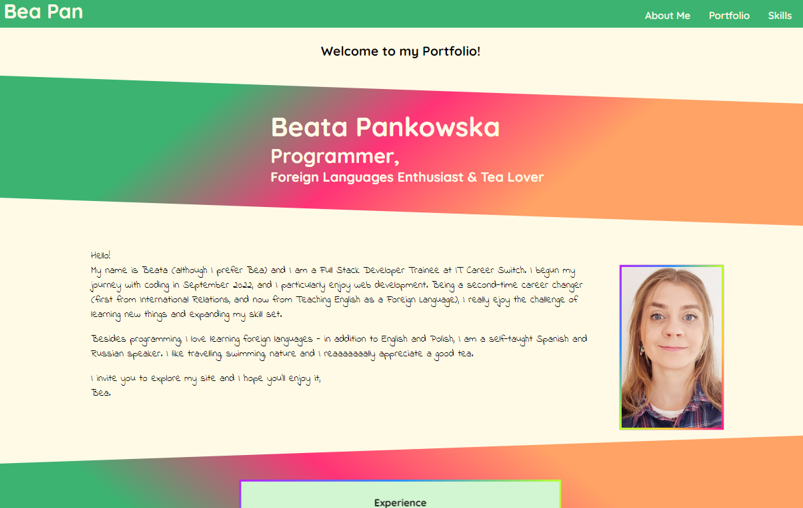
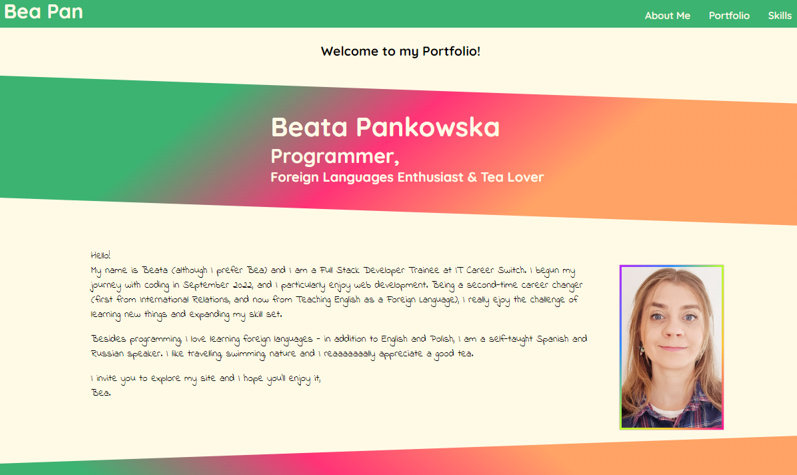
font-introduction and link to Bea Pan

diff --git a/skills.html b/skills.html
@@ -15,7 +15,7 @@
 <body>
     
     <header>
-        <h1>Bea Pan</h1>
+        <a href="index.html" style="text-decoration: none;"><h1>Bea Pan</h1></a>
         <nav>
             <ul>
                 <li><a href="index.html" class="nav">About Me</a></li>
@@ -63,7 +63,7 @@
             <div class="box" >
                 <section  class="skills-box" >
                     <h2>CSS</h2>
-                    <p>Thanks to CSS we can add styling to websites and make them look great! My CSS abilities are on intermediate level, and they keep on improving with every project I take on.</p>
+                    <p>Thanks to CSS we can add styling to websites and make them look great! My CSS abilities are at an intermediate level, and they keep on improving with every project I take on.</p>
                     <p><span>Some of my skills:</span></p>
                     <ul>
                         <li>Creating stylish designs</li>
@@ -80,7 +80,7 @@
             <div class="box" >
                 <section  class="skills-box" >
                     <h2>JavaScript</h2>
-                    <p>JavaScript is the secret ingredient behind most web pages dynamics. It allows for interaction with the end-users. My JavaScript abilities are currently on pre-intermediate level and keep improving with every new project I take.</p>
+                    <p>JavaScript is the secret ingredient behind most web pages dynamics. It allows for interaction with the end-users. My JavaScript abilities are currently at a pre-intermediate level and keep improving with every new project I take.</p>
                     <p><span>Some of my skills:</span></p>
                     <ul>
                         <li>Knowledge of JS ES6 syntax including functions, objects, loops and conditional statements</li>
@@ -98,7 +98,7 @@
             <div class="box" >
                 <section  class="skills-box" >
                     <h2>Python</h2>
-                    <p>I am familiar with basics of Python, but I keep learning this subject.</p>
+                    <p>I am familiar with the basics of Python, but I endeavour to improve my knowledge of this programming language.</p>
                     <p>Watch this space for new skills coming soon!</p>
                     <!--<p><span>Some of my skills:</span></p>
                     <ul>

diff --git a/index.html b/index.html
@@ -12,6 +12,14 @@
     <link href="https://fonts.googleapis.com/css2?family=Quicksand:wght@300;400;500;600;700&display=swap" rel="stylesheet">
     <link rel="stylesheet" href="https://cdnjs.cloudflare.com/ajax/libs/font-awesome/4.7.0/css/font-awesome.min.css">
 
+    <link rel="preconnect" href="https://fonts.googleapis.com">
+    <link rel="preconnect" href="https://fonts.gstatic.com" crossorigin>
+    <link href="https://fonts.googleapis.com/css2?family=Short+Stack&display=swap" rel="stylesheet">
+
+    <link rel="preconnect" href="https://fonts.googleapis.com">
+    <link rel="preconnect" href="https://fonts.gstatic.com" crossorigin>
+    <link href="https://fonts.googleapis.com/css2?family=Architects+Daughter&display=swap" rel="stylesheet">
+
     <link href="https://fonts.googleapis.com/css2?family=Indie+Flower&display=swap" rel="stylesheet">
 
     <title>About Bea Pan</title>
@@ -20,7 +28,7 @@
 </head>
 <body>
     <header>
-        <h1>Bea Pan</h1>
+        <a href="index.html" style="text-decoration: none;"><h1>Bea Pan</h1></a>
         <nav>
             <ul>
                 <li><a href="index.html" class="nav">About Me</a></li>

diff --git a/projects.html b/projects.html
@@ -13,7 +13,7 @@
 </head>
 <body>
     <header>
-        <h1>Bea Pan</h1>
+        <a href="index.html" style="text-decoration: none;"><h1>Bea Pan</h1></a>
         <nav>
             <ul>
                 <li><a href="index.html" class="nav">About Me</a></li>
@@ -25,7 +25,7 @@
     <section class="after-header">
         <div class="info">
             <h1>Portfolio Projects</h1>
-            <p>Although these are still early days of my coding career, I am proud to introduce some of the projects I have already accomplished which helped me better my skills and discover how fun and stimulating programming & web development can be.</p>
+            <p>Although I am still in the early stages of my coding career, I am proud to introduce some of the projects I have already accomplished which helped me better my skills and discover how fun and stimulating programming & web development can be.</p>
             <p>To see any project below live, click on the web icon in its description</p>
             <p>To see the detailed project description and source code, click on the GitHub icon in its description</p>
         </div>

diff --git a/portfolio.css b/portfolio.css
@@ -48,10 +48,6 @@ nav li {
     font-size: 1.5rem;
 }
 
-/* .nav:hover{
-    font-size: 1.7rem;
-    
-} */
 .nav:link {
     text-decoration: none;
 }
@@ -78,7 +74,7 @@ ul {
 }
 
 .wrapper {
-    background: linear-gradient(320deg, #ffa366 30%,  #ff3377, mediumseagreen 75%);
+    background: linear-gradient(320deg, #ffa366 30%,  #ff3377, mediumseagreen 70%);
     width: 100%;
     transform: rotate(2deg) skew(2deg);
     margin-top: 3rem;

diff --git a/index.css b/index.css
@@ -46,7 +46,8 @@
 
  .about-me p {
     padding: 0 2rem;
-    font-family: 'Indie Flower', cursive;
+    font-family: 'Short Stack', cursive;
+    /* font-family: 'Architects Daughter', cursive; */
     font-size: 1.5rem;
  }
 
